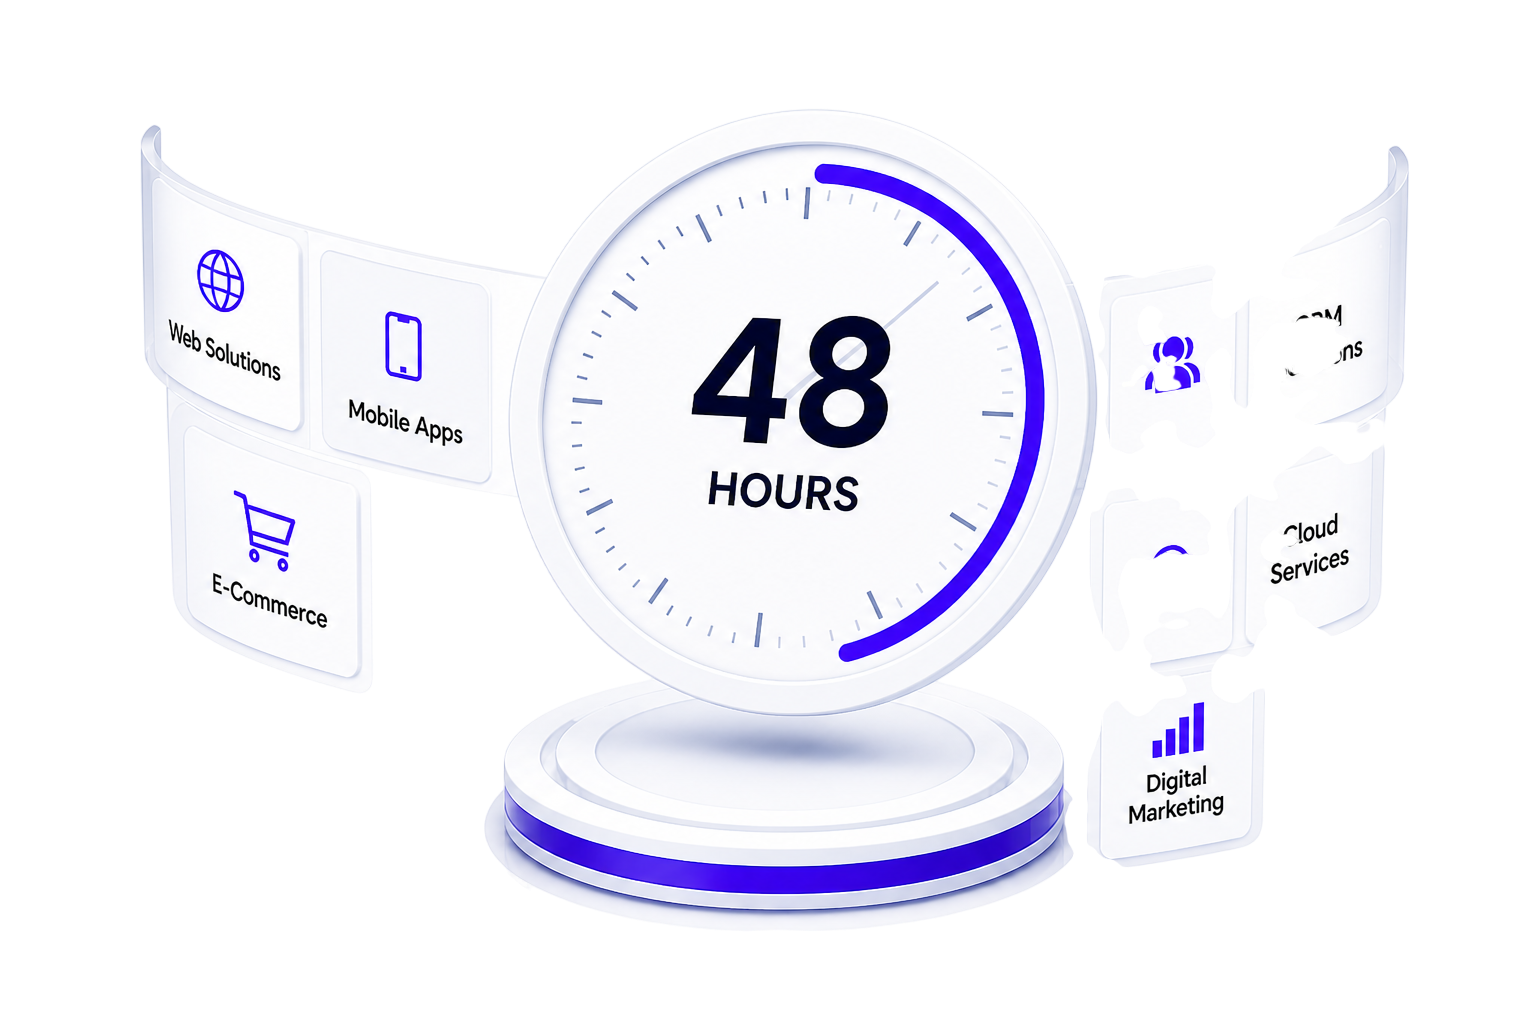
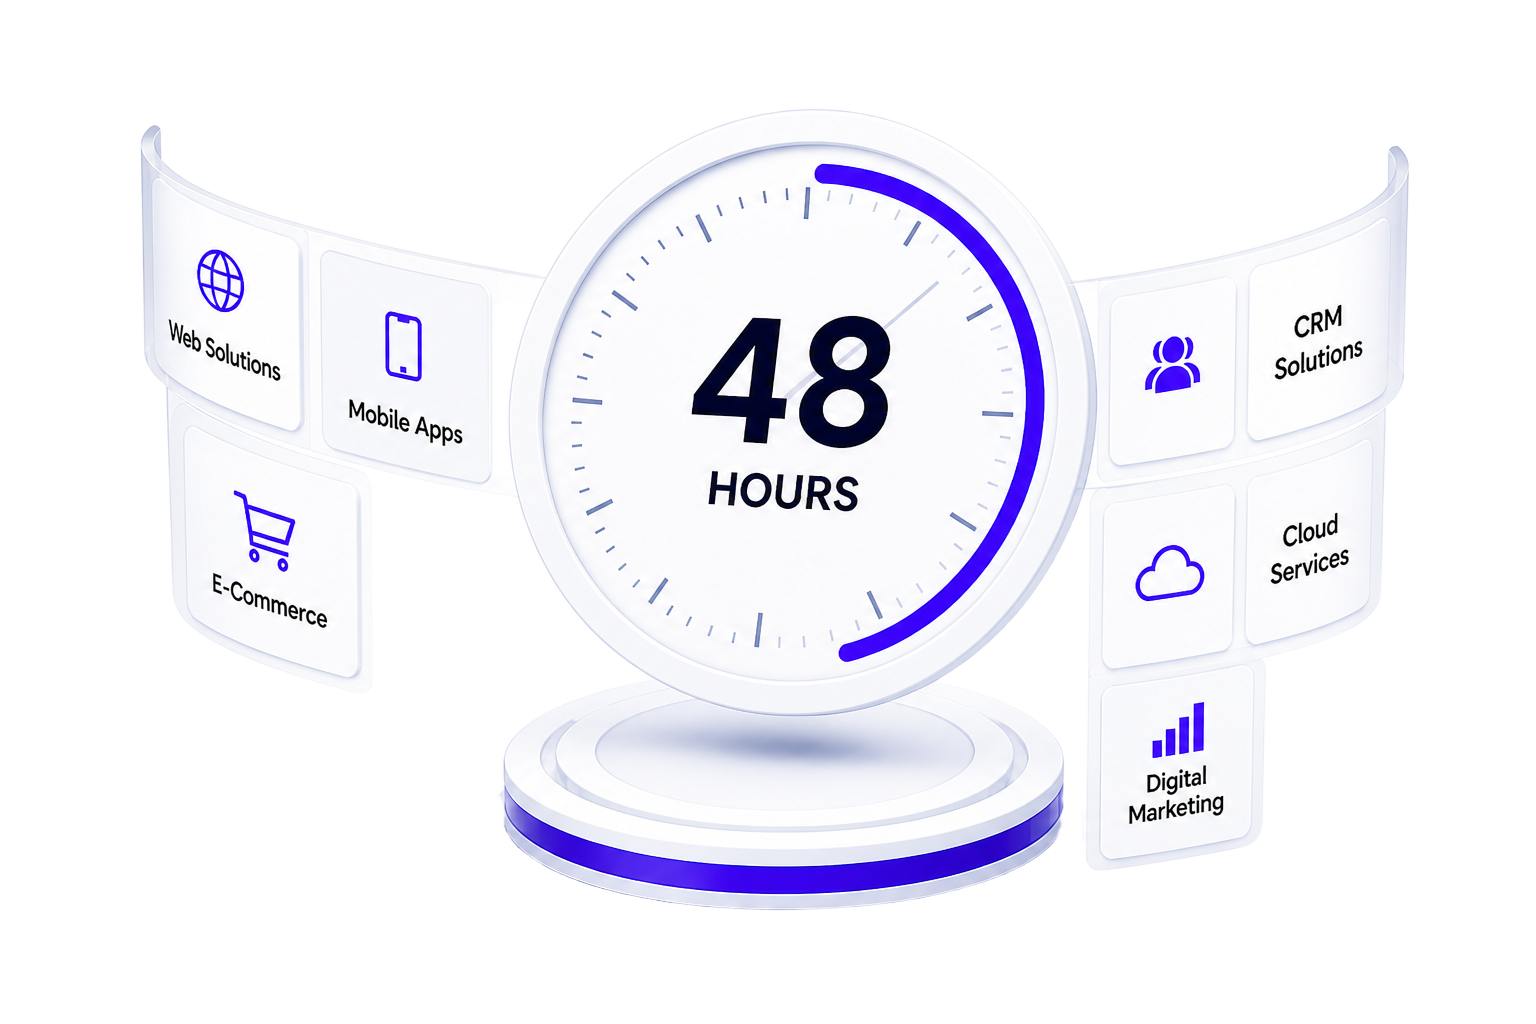
update

diff --git a/src/components/home/Testimonials.tsx b/src/components/home/Testimonials.tsx
@@ -1,11 +1,7 @@
 import { useEffect, useState } from "react";
 import {
-  BriefcaseBusiness,
-  Building2,
   ChevronLeft,
   ChevronRight,
-  ShieldCheck,
-  Sparkles,
   Star,
   UserRound,
 } from "lucide-react";
@@ -14,35 +10,30 @@ const testimonials = [
   {
     name: "Arun Prakash",
     role: "Founder, Nexora Labs",
-    icon: Sparkles,
     quote:
       "Zora helped us turn a complex idea into a polished product with speed, clarity, and strong technical execution.",
   },
   {
     name: "Meera S",
     role: "Director, Elevate Retail",
-    icon: Building2,
     quote:
       "Their team understood our workflows quickly and delivered automation that saved hours of manual effort every week.",
   },
   {
     name: "Rahul Menon",
     role: "CEO, FinEdge Systems",
-    icon: BriefcaseBusiness,
     quote:
       "From planning to launch, the collaboration felt smooth and structured. The final platform was stable and scalable.",
   },
   {
     name: "Divya K",
     role: "Operations Lead, CoreVista",
-    icon: ShieldCheck,
     quote:
       "We needed dependable delivery and thoughtful execution. Zora gave us both while keeping communication transparent.",
   },
   {
     name: "Karthik Raman",
     role: "Product Head, OrbitOne",
-    icon: UserRound,
     quote:
       "The UI quality, responsiveness, and business understanding stood out. They built exactly what our users needed.",
   },
@@ -95,7 +86,7 @@ const Testimonials: React.FC = () => {
   });
 
   return (
-    <section className="relative overflow-hidden bg-[linear-gradient(135deg,#4c0fb8_0%,#6d28d9_35%,#7c3aed_62%,#5313c6_100%)] px-4 py-10 sm:px-6 sm:py-12 lg:px-8">
+    <section className="relative overflow-hidden bg-[linear-gradient(135deg,#4c0fb8_0%,#6d28d9_35%,#7c3aed_62%,#5313c6_100%)] px-4 py-8 sm:px-6 sm:py-9 lg:px-8">
       <div className="pointer-events-none absolute inset-0 bg-[radial-gradient(circle_at_top,rgba(255,255,255,0.18),transparent_34%),linear-gradient(120deg,transparent_28%,rgba(255,255,255,0.07)_46%,transparent_68%)]" />
 
       <div className="relative mx-auto max-w-7xl">
@@ -103,16 +94,16 @@ const Testimonials: React.FC = () => {
           <p className="text-sm font-bold uppercase tracking-[0.26em] text-violet-100/85">
             Customer Reviews
           </p>
-          <h2 className="mt-6 font-serif text-3xl font-black tracking-tight text-white sm:text-[3rem] lg:text-[2.8rem]">
+          <h2 className="mt-4 font-serif text-3xl font-black tracking-tight text-white sm:text-[2.7rem] lg:text-[2.55rem]">
             Trusted by Teams That Value Results
           </h2>
-          <p className="mx-auto mt-4 max-w-3xl text-[1.05rem] leading-9 text-violet-100/90">
+          <p className="mx-auto mt-3 max-w-3xl text-[1rem] leading-8 text-violet-100/90">
             Real feedback from businesses that partnered with Zora to build, scale,
             and streamline their digital solutions.
           </p>
         </div>
 
-        <div className="mt-10 flex items-center gap-3 lg:gap-5">
+        <div className="mt-8 flex items-center gap-3 lg:gap-4">
           <button
             type="button"
             onClick={goPrevious}
@@ -123,28 +114,26 @@ const Testimonials: React.FC = () => {
           </button>
 
           <div className="min-w-0 flex-1 overflow-hidden">
-            <div className="grid gap-4 md:grid-cols-2 lg:grid-cols-3 lg:gap-4">
+            <div className="grid gap-3 md:grid-cols-2 lg:grid-cols-3 lg:gap-3">
               {visibleTestimonials.map((item) => {
-                const Icon = item.icon;
-
                 return (
-                  <article key={`${item.name}-${activeIndex}`} className="mt-8 flex h-full flex-col bg-white px-5 pb-6 pt-0 text-center shadow-[0_18px_36px_rgba(23,10,73,0.16)]">
-                    <div className="mx-auto -mt-8 flex h-16 w-16 items-center justify-center rounded-full border-4 border-white bg-[linear-gradient(135deg,#efe8ff_0%,#f8f4ff_100%)] text-violet-700 shadow-[0_14px_24px_rgba(91,33,182,0.16)]">
-                      <Icon size={26} strokeWidth={2.1} />
+                  <article key={`${item.name}-${activeIndex}`} className="mt-7 flex h-full flex-col bg-white px-5 pb-5 pt-0 text-center shadow-[0_16px_30px_rgba(23,10,73,0.15)]">
+                    <div className="mx-auto -mt-7 flex h-14 w-14 items-center justify-center rounded-full border-4 border-white bg-[linear-gradient(135deg,#efe8ff_0%,#f8f4ff_100%)] text-violet-700 shadow-[0_12px_20px_rgba(91,33,182,0.14)]">
+                      <UserRound size={24} strokeWidth={2.1} />
                     </div>
 
-                    <h3 className="mt-4 text-[1.35rem] font-semibold tracking-[-0.03em] text-slate-950">
+                    <h3 className="mt-3 text-[1.2rem] font-semibold tracking-[-0.03em] text-slate-950">
                       {item.name}
                     </h3>
                     <p className="mt-1 text-sm font-medium text-slate-500">{item.role}</p>
 
-                    <div className="mt-3 flex justify-center gap-1 text-amber-400">
+                    <div className="mt-2.5 flex justify-center gap-1 text-amber-400">
                       {Array.from({ length: 5 }).map((_, index) => (
-                        <Star key={index} size={17} fill="currentColor" strokeWidth={1.8} />
+                        <Star key={index} size={16} fill="currentColor" strokeWidth={1.8} />
                       ))}
                     </div>
 
-                    <p className="mt-4 text-[0.98rem] leading-7 text-slate-700">
+                    <p className="mt-3 text-[0.95rem] leading-7 text-slate-700">
                       {item.quote}
                     </p>
                   </article>
@@ -163,7 +152,7 @@ const Testimonials: React.FC = () => {
           </button>
         </div>
 
-        <div className="mt-7 flex items-center justify-center gap-2.5">
+        <div className="mt-5 flex items-center justify-center gap-2.5">
           {testimonials.map((item, index) => (
             <button
               key={item.name}
@@ -179,7 +168,7 @@ const Testimonials: React.FC = () => {
           ))}
         </div>
 
-        <div className="mt-6 flex items-center justify-center gap-3 lg:hidden">
+        <div className="mt-5 flex items-center justify-center gap-3 lg:hidden">
           <button
             type="button"
             onClick={goPrevious}

diff --git a/src/components/Navbar.tsx b/src/components/Navbar.tsx
@@ -17,6 +17,14 @@ const CANONICAL_SERVICE_PATHS: Record<string, string> = {
   "ai-automation-solutions": "/services/ai-automation-solutions",
 };
 
+const normalizeServicePath = (path: string) => {
+  const match = path.match(/^\/services\/(?:it\/)?([^/]+)/);
+  if (!match) return path;
+
+  const slug = match[1];
+  return `/services/${slug}`;
+};
+
 const itServices: NavServiceItem[] = IT_SERVICE_CATEGORIES.map((category) => ({
   label: category.title,
   to: CANONICAL_SERVICE_PATHS[category.slug] ?? `/services/it/${category.slug}`,
@@ -54,28 +62,20 @@ const Navbar: React.FC = () => {
     event: React.MouseEvent<HTMLAnchorElement>,
     to: string,
   ) => {
-    const matchedCanonical = Object.values(CANONICAL_SERVICE_PATHS).find((path) => path === to);
     const currentPath = location.pathname;
-    const canonicalAlias = matchedCanonical
-      ? currentPath === matchedCanonical ||
-        currentPath === `/services/it/${matchedCanonical.split("/").pop()}`
-      : false;
-
-    if (!matchedCanonical) {
-      scrollTop();
-      return;
-    }
+    const normalizedCurrentPath = normalizeServicePath(currentPath);
+    const normalizedTargetPath = normalizeServicePath(to);
 
     event.preventDefault();
     setMenuOpen(false);
     setServicesOpen(false);
 
-    if (canonicalAlias) {
+    if (normalizedCurrentPath === normalizedTargetPath) {
       window.location.assign(to);
       return;
     }
 
-    navigate(to);
+    navigate(CANONICAL_SERVICE_PATHS[normalizedTargetPath.split("/").pop() ?? ""] ?? to);
     scrollTop();
   };
 